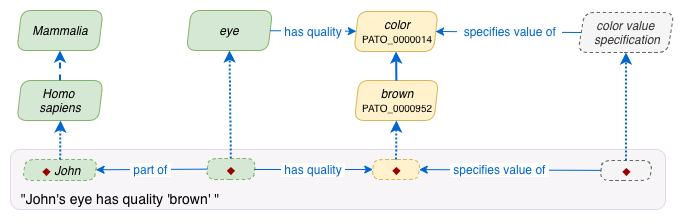
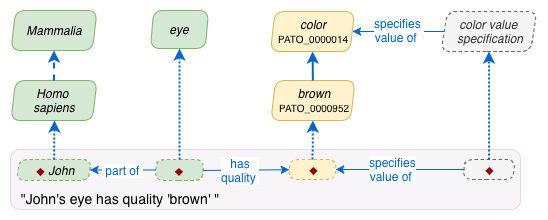
tweaks

diff --git a/_pages/docs/data-vs.md b/_pages/docs/data-vs.md
@@ -12,7 +12,7 @@ sidebar:
 
 The inability of [`data properties`](/docs/data_properties/) to provide units, valid categorical choices or timestamped datums has led OBI to introduce a **[`value specification`](http://purl.obolibrary.org/obo/OBI_0001933){:target="_blank"}** (VS) class which more explicitly [`specifies value of`](http://purl.obolibrary.org/obo/OBI_0001927) a quality, datum, or postcomposed expression that it is about.  There are a few different kinds of `value specification` for capturing needed details of numeric, string and categorical variables, organized in OBI by their value datatypes:
 
-<img align="right" src="/assets/images/docs/data_value_specs.png">
+<img src="/assets/images/docs/data_value_specs.png">
 
 - A `string value specification` includes a **[`has specified value`](http://purl.obolibrary.org/obo/OBI_0002135){:target="_blank"}** as described in the `data properties` section.
 
@@ -32,11 +32,15 @@ The diagram shows a "[`mass value specification`](http://purl.obolibrary.org/obo
 
 The connection between a measurement datum (or any ICE term) and a value specification is accomplished with the **[`has value specification`](http://purl.obolibrary.org/obo/OBI_0001938){:target="_blank"}** object property. Thus an [`age measurement datum`](http://purl.obolibrary.org/obo/OBI_0001167){:target="_blank"} could be linked to a numeric value specification which details the unit - year, month, day etc. of the measure. It could alternately be provided as a [`categorical value`](/docs/data-categorical/) for "mature", "immature", "neonatal", etc.
 
-In the case where a value specification and/or measurement datum is about the conjunction of a few different things, the aboutness target can be a postcomposed expression of those components, with one component, usually a quality, providing the primary type of the measure.  For example "eye color" is primarily about color - and so limited to ways that can be reported, but secondarily about the body part being observed, and finally - in the instance, references a particular organism being observed. An example generic value specification and measurement datum both pointing to John's eye color being brown (in this case "specifies value of" points directly to the value specification's essentially categorical value. Here the `color value specification` points to the range of choices permitted for the instance of color quality, in this case, any subclass of color is ok.
+In the case where a value specification and/or measurement datum is about the conjunction of a few different things, the aboutness target can be a postcomposed expression of those components, with one component, usually a quality, providing the primary type of the measure.  For example "eye color" is primarily about color - and so limited to ways that can be reported, but secondarily about the body part being observed, and finally - in the instance, references a particular organism being observed. 
 
-<img src="/assets/images/docs/data_john_eye.png">
+<img align="right" src="/assets/images/docs/data_john_eye.png">
 
-This is our first example of measuring a property of a part of something. Above, an instance of Uberon eye is part of an instance of Homo sapiens, a parthood simplification for what some might need to model in a more complicated way.  For example, ophthalmologists need to distinguish left and right eyes, and allow each to have different iris colors (it happens!), and to describe the color of sclera or conjunctiva (e.g. for red eye or pink eye).  Uberon supports this with `left eye` and `right eye` terms as subclasses of `eye`, and says "`eye` `part of` some `visual system`" but it stops short of establishing a parthood chain between `eye` and `mammalia`.  In the future such standardizing axioms may be introduced which client ontologies and triple store databases can employ to ensure data structure compatibility.  Regardless, it is usually ok to use a simple `part of` relation to abbreviate a more intricate parthood chain if it fits your needed granularity of description.
+An example generic value specification and measurement datum both pointing to John's eye color being brown (in this case "specifies value of" points directly to the value specification's essentially categorical value. 
+
+This is our first example of measuring a quality of a part of something. An instance of the Uberon ontology [`eye`](http://purl.obolibrary.org/obo/UBERON_0000970) is part of an instance of Homo sapiens, and 'has quality' some instance of PATO [`brown`](http://purl.obolibrary.org/obo/PATO_0000952).  An instance of the add-on `color value specification` class points to the `brown` instance as well. `color value specification` class points to any subclass of [`color`](http://purl.obolibrary.org/obo/PATO_0000952) as being permitted for the instance.
+
+"Homo sapiens has part some eye" is a parthood simplification for what some might need to model in a more complicated way.  For example, ophthalmologists need to distinguish left and right eyes, and allow each to have different iris colors (it happens!), and to describe the color of sclera or conjunctiva (e.g. for red eye or pink eye).  Uberon supports this with `left eye` and `right eye` terms as subclasses of `eye`, and says "`eye` `part of` some `visual system`" but it stops short of establishing a parthood chain between `eye` and `mammalia`.  In the future such standardizing axioms may be introduced which client ontologies and triple store databases can employ to ensure data structure compatibility.  Regardless, it is usually ok to use a simple `part of` relation to abbreviate a more intricate parthood chain if it fits your needed granularity of description.
 
 Note that different assays may output the same measurement datum and value specification combination.  For example an [`age since planting measurement datum`](http://purl.obolibrary.org/obo/OBI_0001156){:target="_blank"} and integer year value specification could be output from assays that calculate or estimate by input tree ring count, carbon 14 analysis, planting date, height of species etc.  It is up to an ontology implementer to define a more specific process as a sub-class of an existing general process if needed; if it falls within the scope of OBI, it may be a candidate for inclusion.
 

diff --git a/_pages/docs/data-properties.md b/_pages/docs/data-properties.md
@@ -26,7 +26,7 @@ The label of the data property tells humans in hopefully plain language what the
 
 <img align="right" src="/assets/images/docs/data_age_measurement_datums.png">
 
-In fact there are many kinds of [`ages`](http://purl.obolibrary.org/obo/OBI_0001167) in the biomedical and biological research realm; a number from OBI are listed here. Rather than creating a litany of data properties, OBI has chosen an alternative approach - a data modelling vocabulary that focuses on describing a core entity's role, quality, information content and other descriptive components rather than directly connecting semantically opaque data properties. **This is not to say non-OBI `data properties` are forbidden in application ontologies - but going through the exercise of defining them in terms of a generic BFO set of terms is a good exercise that may anticipate data sharing issues.**
+In fact there are many kinds of [`ages`](http://purl.obolibrary.org/obo/OBI_0001167) in the biomedical and biological research realm; a number of related datums from OBI are listed here. Rather than creating a litany of data properties, OBI has chosen an alternative approach - a data modelling vocabulary that focuses on describing a core entity's role, quality, information content and other descriptive components rather than directly connecting semantically opaque data properties. **This is not to say non-OBI `data properties` are forbidden in application ontologies - but going through the exercise of defining them in terms of a generic BFO/OBI/OBO Foundry set of terms is a good exercise that may anticipate data sharing issues.**
 
 Below is an example focusing on providing values for information content entities typically connected to a person instance.
 

diff --git a/_pages/docs/data-string.md b/_pages/docs/data-string.md
@@ -7,9 +7,7 @@ sidebar:
   nav: "docs"
 ---
 
-
 ## ISSUE: *Can we allow identifier string values in value specification? See: [issue 985](https://github.com/obi-ontology/obi/issues/985){:target="_blank"}*
-
 
 "Free text" string data are often not amenable to data analysis by OWL reasoning unless the values happen to be categorical (see [`categorical`](/docs/data-categorical/){:target="_blank"} data section).  This includes strings like "20g" which haven't been parsed into their numeric and unit components. These can be recorded in an annotation for a given entity ICE component; OBI is currently discussing adding a `has representation` annotation to serve this purpose (see issue [`#985`](https://github.com/obi-ontology/obi/issues/985){:target="_blank"}).
 
